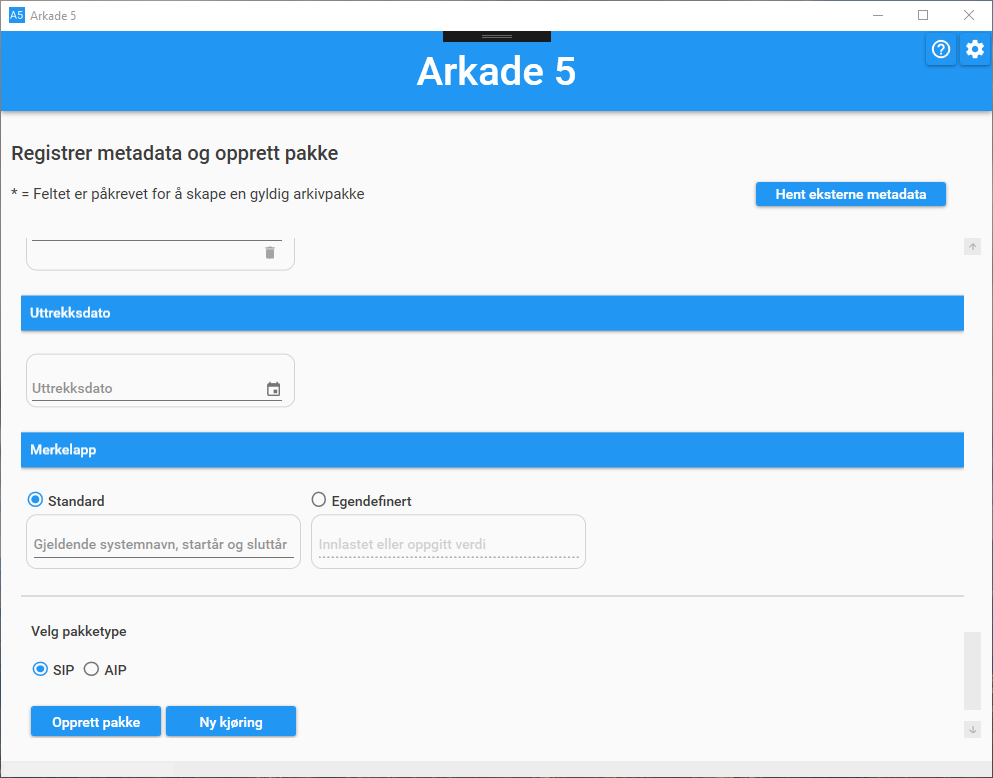
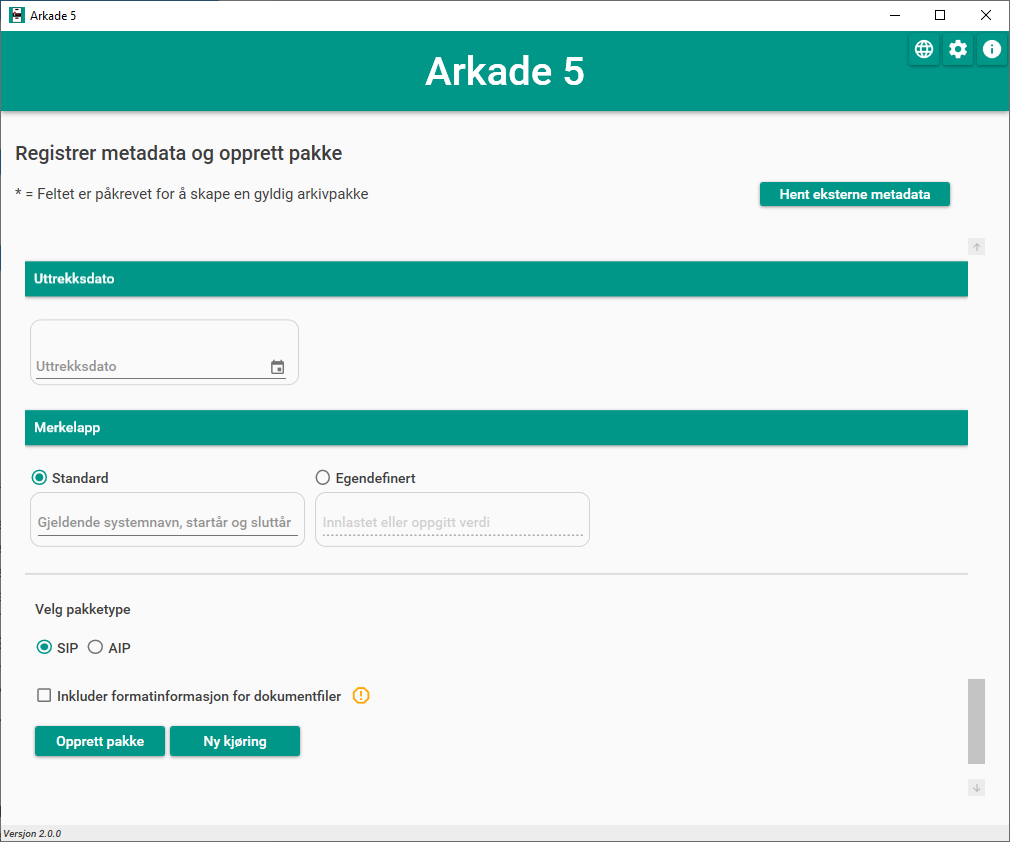
Update GUI user guide
ARKADE-391

diff --git a/Brukerveiledning.rst b/Brukerveiledning.rst
@@ -88,9 +88,11 @@ Arkivpakkevinduet
 
 .. image:: img/PackageWindow.png
 
-Før arkivpakke opprettes registreres aktuelle metadata. For å skape en gyldig arkivpakke må påkrevde felter (merket *) utfylles. Dersom det aktuelle arkivuttrekket i utgangspunktet var en arkivpakke (AIP/SIP) med allerede definerte metadata, vil Arkade forsøke å lese disse inn og forhåndsutfylle feltene i arkivpakkevinduet. Ved å klikke knappen "Last inn eksisterende metadata" kan det velges en fil med forhåndsdefinerte metadata, enten en METS-fil (f.eks. {uuid}.xml, info.xml eller dias-mets.xml fra tidligere produsert pakke) eller metadata på JSON-format (f.eks. generert med Arkade CLI) for automatisk utfylling av feltene. Når pakken opprettes skrives den utfylte informasjonen til filen dias-mets.xml som legges ved i arkivpakken. Metadataene skrives også til filen {uuid}.xml som legges utenfor, på samme nivå som, arkivpakken.
+Før arkivpakke opprettes registreres aktuelle metadata. For å skape en gyldig arkivpakke må påkrevde felter (merket *) utfylles. Dersom det aktuelle arkivuttrekket i utgangspunktet var en arkivpakke (AIP/SIP) med allerede definerte metadata, vil Arkade forsøke å lese disse inn og forhåndsutfylle feltene i arkivpakkevinduet. Ved å klikke knappen "Hent eksterne metadata" kan det velges en fil med forhåndsdefinerte metadata, enten en METS-fil (f.eks. {uuid}.xml, info.xml eller dias-mets.xml fra tidligere produsert pakke) eller metadata på JSON-format (f.eks. generert med Arkade CLI) for automatisk utfylling av feltene. Når pakken opprettes skrives den utfylte informasjonen til filen dias-mets.xml som legges ved i arkivpakken. Metadataene skrives også til filen {uuid}.xml som legges utenfor, på samme nivå som, arkivpakken.
 
 I nedre del av vinduet velges ønsket pakketype, SIP eller AIP.
+
+Dersom "Inkluder formatinformasjon for dokumentfiler" velges vil Arkade lage en csv-fil med forespurt informasjon og lagre denne på følgende lokasjon i tar-filen: :file:`\{uuid\\\}\\administrative_metadata\ `
 
 Når ønskede metadata er oppgitt, klikkes knappen "Opprett pakke". Dette åpner et dialogvindu for valg av pakkens plassering. Ved valgt plassering opprettes arkivpakken.
 
